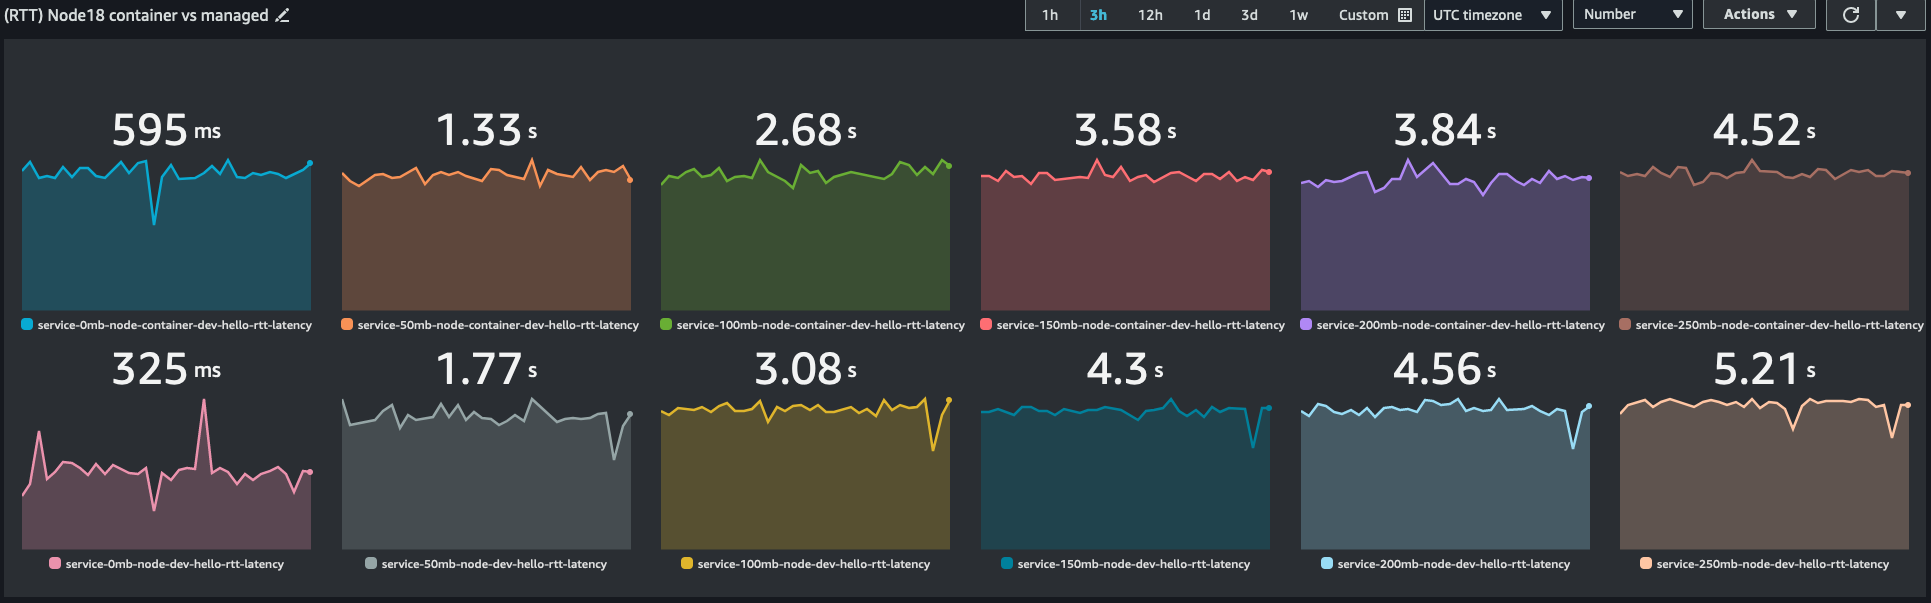
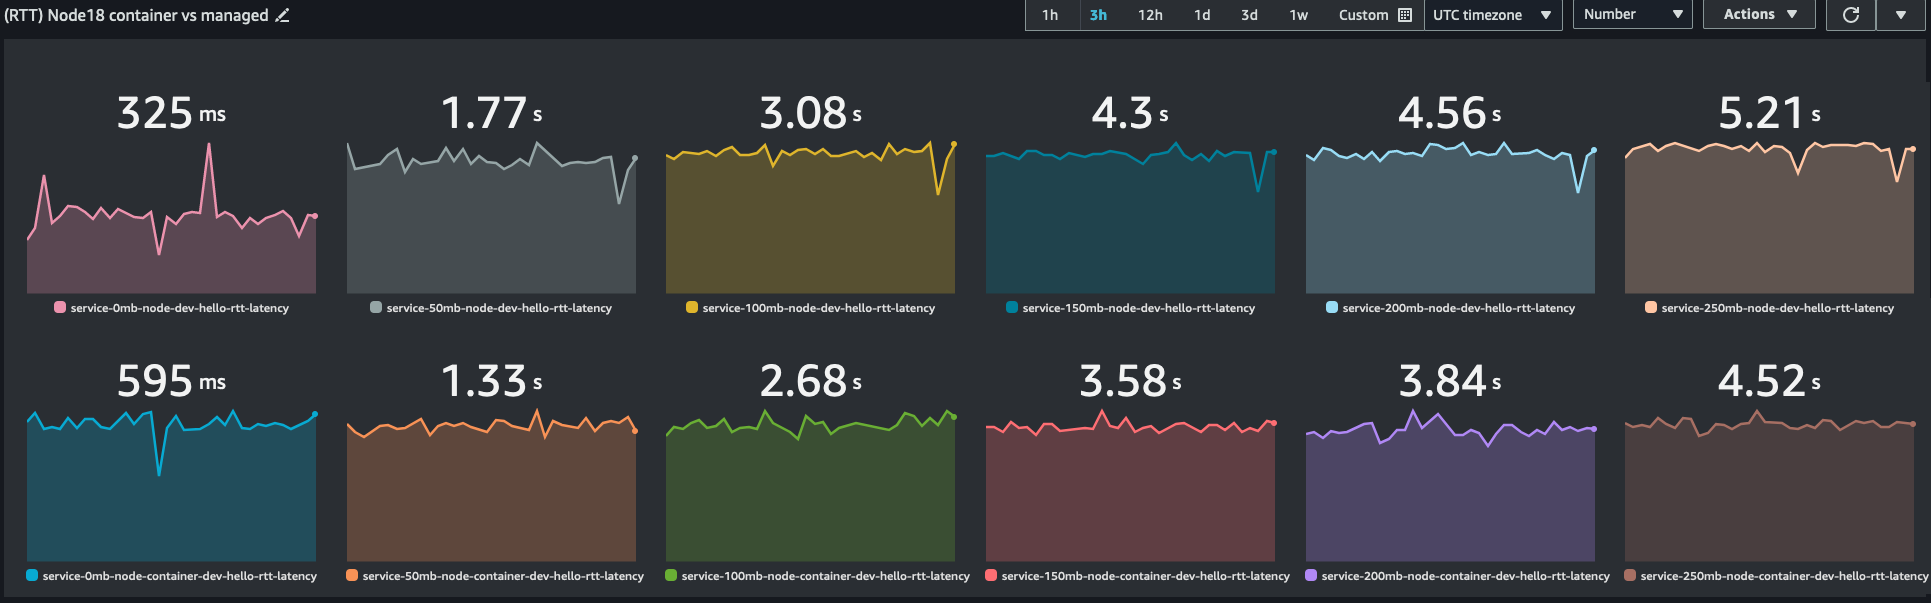
feat: Flip nodejs container/zip rows to be consistent

diff --git a/_posts/2024-01-02-containers-on-lambda.md b/_posts/2024-01-02-containers-on-lambda.md
@@ -25,8 +25,9 @@ I created a cold start by updating the function configuration (setting a new env
 
 These results were based on the p99 response time, but I've included the p50 times for python below.
 
-This first test contains a set of NodeJS functions running Node18.x. After several days and thousands of invocations, we see the final result. The top row represents container-based Lambda functions, and the bottom row reports zip-based Lambda functions (lower is better):
+This first test contains a set of NodeJS functions running Node18.x. After several days and thousands of invocations, we see the final result. The top row represents zip-based Lambda functions, and the bottom row reports container-based Lambda functions (lower is better):
 <span class="image fit"><a href ="/assets/images/lambda_containers/container_metrics.png" target="_blank"><img src="/assets/images/lambda_containers/container_metrics.png" alt="Round trip cold start request time for thousands of invocations over several days"></a></span>
+An earlier version of this post reversed the rows. I've changed this to be consistent with the python result format. Thanks to those who corrected me!
 
 It's easier to read a bar chart:
 <span class="image fit"><a href ="/assets/images/lambda_containers/container_bar_chart.png" target="_blank"><img src="/assets/images/lambda_containers/container_bar_chart.png" alt="Round trip cold start request time for thousands of invocations over several days, as a bar chart"></a></span>
